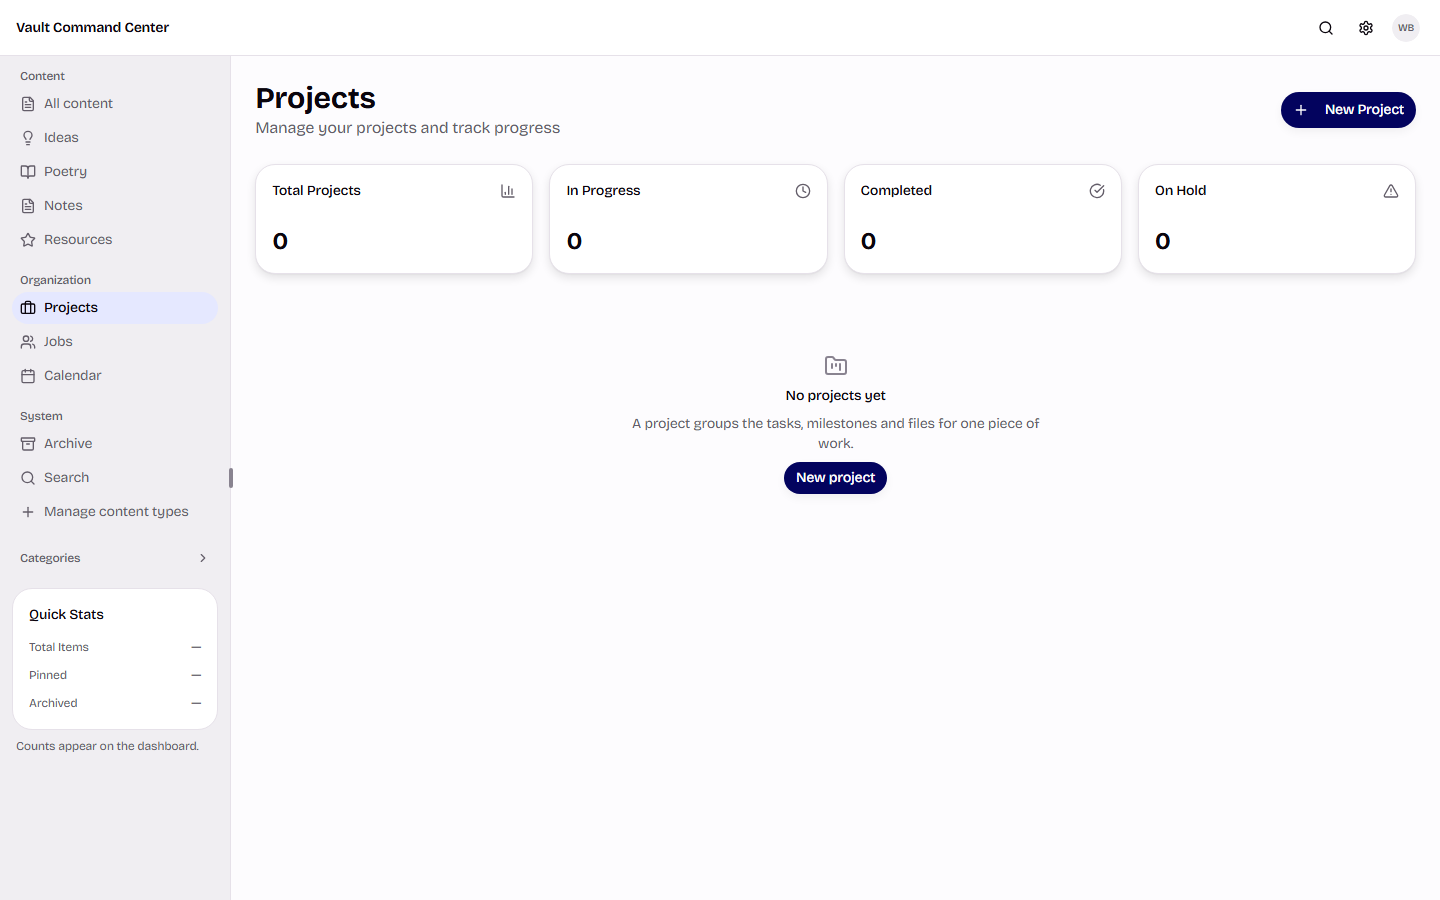
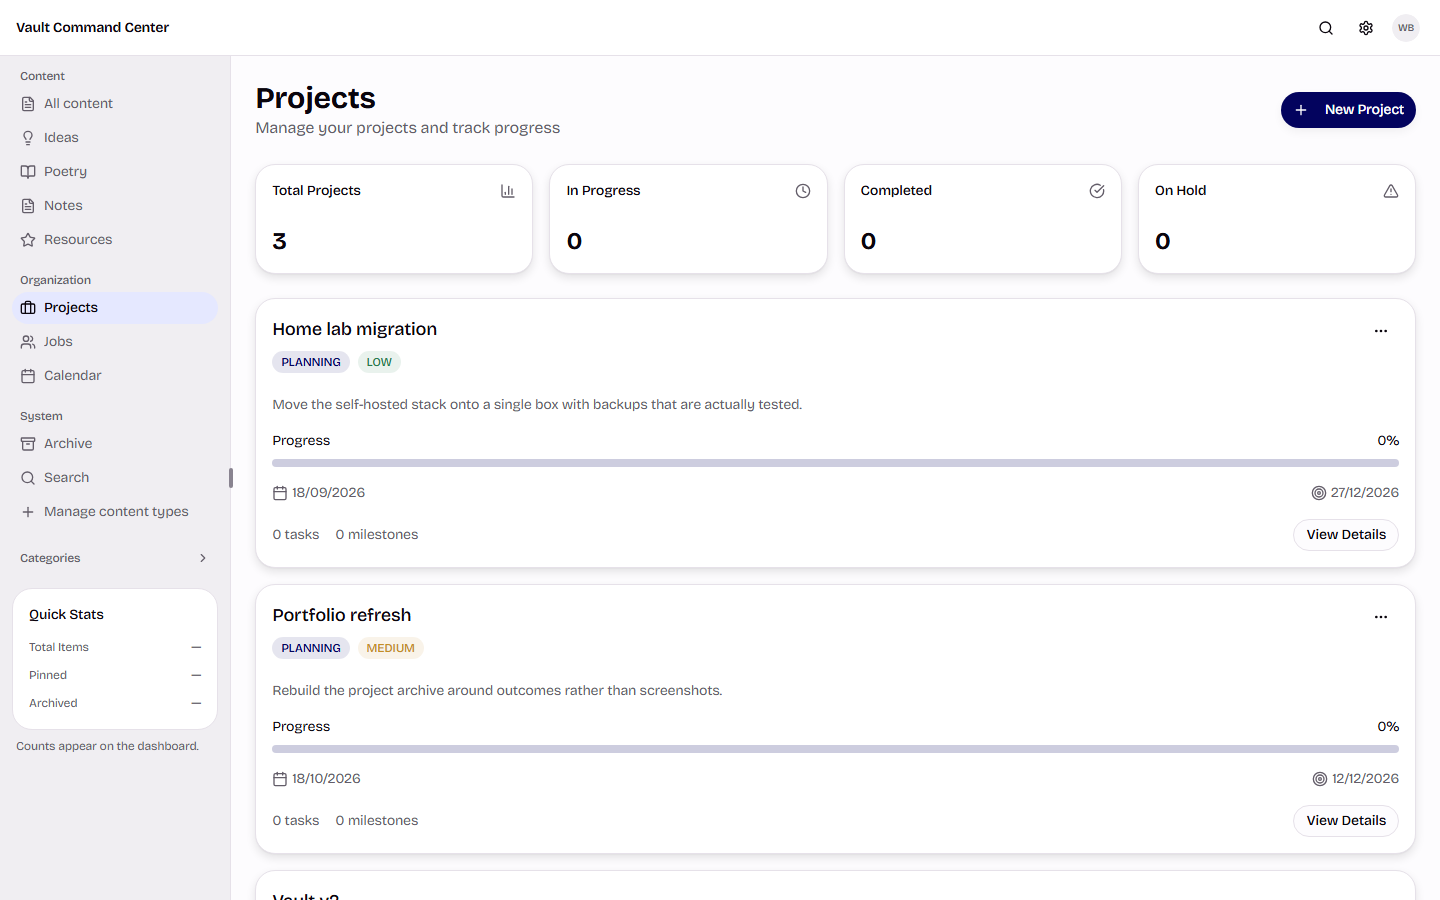
docs: add a screenshot gallery covering every page

diff --git a/README.md b/README.md
@@ -13,7 +13,36 @@
 
 </div>
 
-![Vault dashboard](docs/screenshot.png)
+![Vault dashboard](docs/screens/01-dashboard.png)
+
+---
+
+## Screenshots
+
+| | |
+|---|---|
+| **Dashboard** — notes list beside the editor, with the navigation rail, categories and quick stats | **Calendar** — month view with events stored as JSON sidecars in Drive |
+| ![Dashboard](docs/screens/01-dashboard.png) | ![Calendar](docs/screens/02-calendar.png) |
+| **Jobs** — application pipeline with stage counters and progress | **Projects** — project cards with status, priority, dates and progress |
+| ![Jobs](docs/screens/03-jobs.png) | ![Projects](docs/screens/04-projects.png) |
+| **Search** — one query across notes, projects, jobs and events | **Files** — uploads and provider filtering |
+| ![Search](docs/screens/05-search.png) | ![Files](docs/screens/06-files.png) |
+| **Cloud storage** — a single Google Drive connection, status and setup | **Content types** — system types and your own custom ones |
+| ![Cloud storage](docs/screens/07-settings-cloud-storage.png) | ![Content types](docs/screens/08-settings-content-types.png) |
+
+<details>
+<summary>More screenshots — data, integrations, sign-in and error states</summary>
+
+| | |
+|---|---|
+| **Data** — export and backup controls | **Integrations** — the connected Drive account |
+| ![Data](docs/screens/09-settings-data.png) | ![Integrations](docs/screens/10-settings-integrations.png) |
+| **Calendar integrations** — import and export | **Sign in** — Google only, no password field |
+| ![Calendar integrations](docs/screens/11-calendar-integrations.png) | ![Sign in](docs/screens/12-sign-in.png) |
+| **Error page** — a signed-out or failed sign-in, explained | |
+| ![Error page](docs/screens/13-error-page.png) | |
+
+</details>
 
 ---
 
